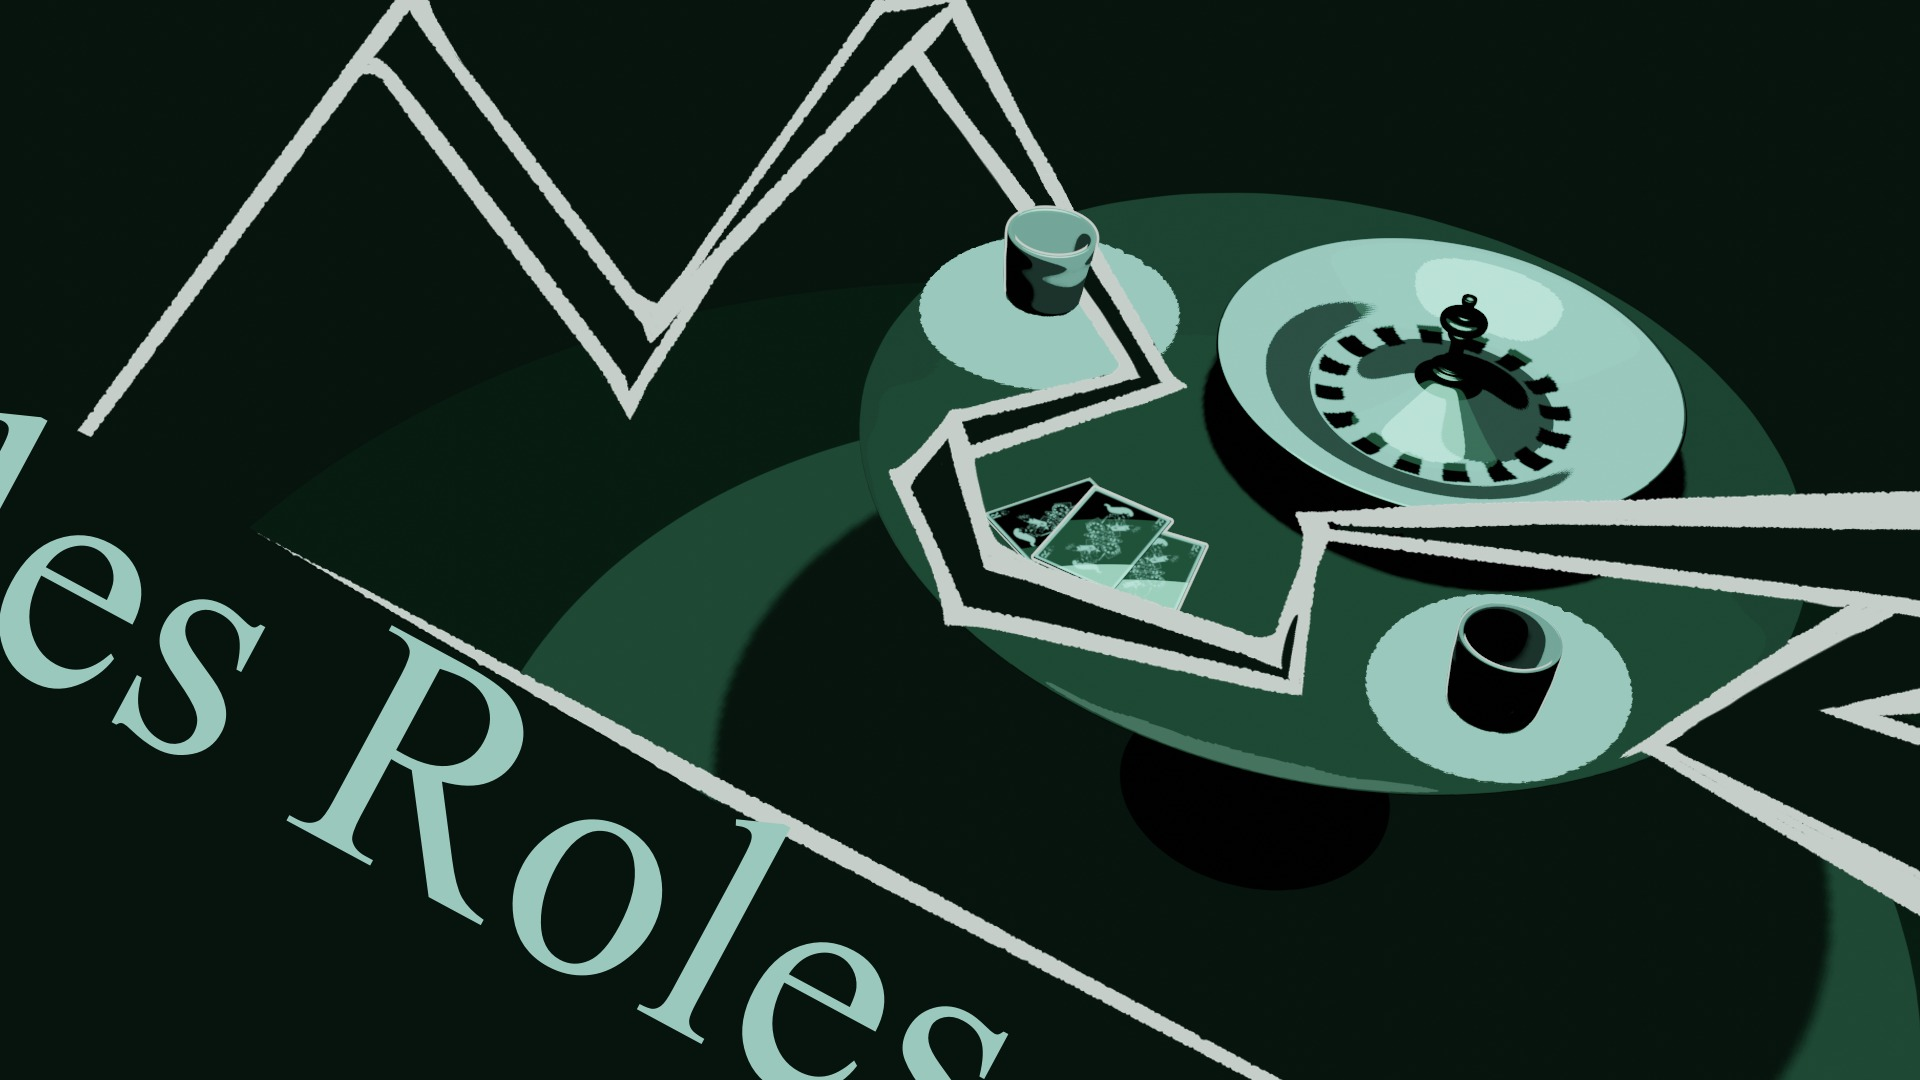
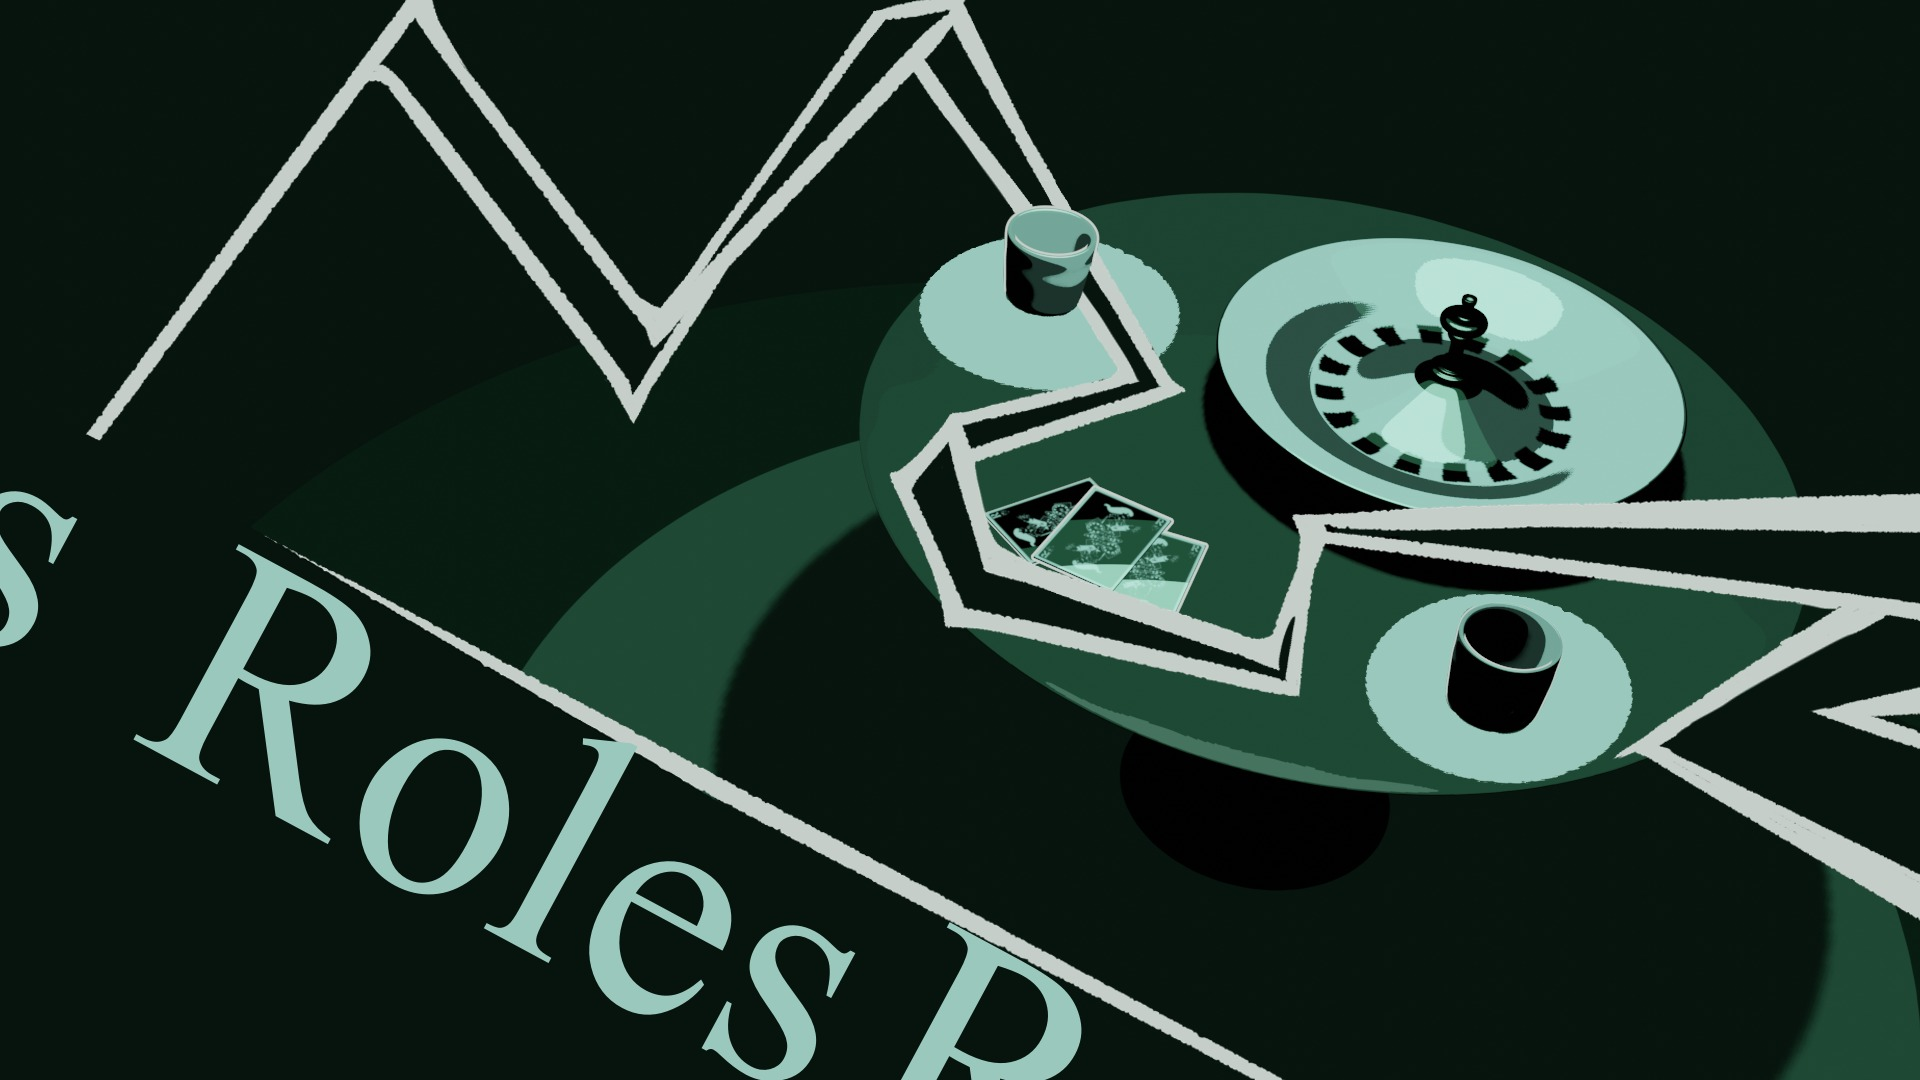
Animaciones

diff --git a/AppGM/AppGM/Paginas/Inicio/UserControlPaginaInicio.xaml b/AppGM/AppGM/Paginas/Inicio/UserControlPaginaInicio.xaml
@@ -14,7 +14,7 @@
         <!-- Imagen de fondo -->
         <Grid.Background>
             <ImageBrush Stretch="UniformToFill"
-                        ImageSource="../../Media/Imagenes/UiFondoMenuPrincipal.png"/>
+                        ImageSource="{Binding FotogramaActualAnimacionFondo}"/>
         </Grid.Background>
 
         <Grid.ColumnDefinitions>

diff --git a/AppGM/AppGMCore/Otros/Animaciones/Animacion.cs b/AppGM/AppGMCore/Otros/Animaciones/Animacion.cs
@@ -1,0 +1,56 @@
+using System;
+using System.Linq.Expressions;
+using System.Reflection;
+using System.Diagnostics;
+
+namespace AppGM.Core
+{
+    public class Animacion
+    {
+        public string pathFotogramas;
+
+        private float intervaloEntreFotogramas;
+        private int fotogramaActual = 0;
+        private ushort cantidadDeFotogramas;
+
+        private string extensionImagen;
+
+        private BaseViewModel elementoContenedor;
+        private PropertyInfo  propiedad;
+        private Stopwatch     reloj = new Stopwatch();
+        public Animacion(
+            Expression<Func<string>> _propiedad,
+            float _iteracionesPorSegundo,
+            ushort _cantidadDeFotogramas,
+            string _pathFotogramas,
+            EFormatoImagen _formatoFotogramas,
+            BaseViewModel _elementoContenedor)
+        {
+            pathFotogramas           = _pathFotogramas;
+            cantidadDeFotogramas     = _cantidadDeFotogramas;
+            intervaloEntreFotogramas = ((1.0f / cantidadDeFotogramas) / _iteracionesPorSegundo) * 1000f;
+
+            extensionImagen = _formatoFotogramas == EFormatoImagen.Png ? ".png" : ".jpg";
+
+            MemberExpression mex = _propiedad.Body as MemberExpression;
+
+            propiedad = mex.Member as PropertyInfo;
+
+            elementoContenedor = _elementoContenedor;
+
+            reloj.Start();
+        }
+
+        public void Tick()
+        {
+            if (reloj.ElapsedMilliseconds > intervaloEntreFotogramas)
+            {
+                fotogramaActual = ++fotogramaActual % cantidadDeFotogramas;
+
+                propiedad.SetValue(elementoContenedor, pathFotogramas + fotogramaActual + extensionImagen);
+
+                reloj.Restart();
+            }
+        }
+    }
+}

diff --git a/AppGM/AppGMCore/ViewModels/ViewModelPaginaPrincipal.cs b/AppGM/AppGMCore/ViewModels/ViewModelPaginaPrincipal.cs
@@ -14,6 +14,9 @@ namespace AppGM.Core
 
         public bool MouseSobreCartaRol { get; set; } = false;
 
+        public string FotogramaActualAnimacionFondo { get; set; } =
+            "../../../Media/Imagenes/Animaciones/FondoMenuPrincipal/FondoMenuPrincipal_0.jpg";
+
         public ICommand ComandoAvanzarIndiceRol { get; set; }
         public ICommand ComandoRetrocederIndiceRol { get; set; }
 
@@ -81,6 +84,14 @@ namespace AppGM.Core
 
                 DispararPropertyChanged(new PropertyChangedEventArgs(nameof(RolActual)));
             });
+
+            ControladorDeAnimaciones.AñadirAnimacion(
+                new Animacion(()=>FotogramaActualAnimacionFondo,
+                    1.2f,
+                    6,
+                    "../../Media/Imagenes/Animaciones/FondoMenuPrincipal/FondoMenuPrincipal_",
+                    EFormatoImagen.Jpg,
+                    this));
         }
         #endregion
 

diff --git a/AppGM/AppGMCore/Otros/Animaciones/ControladorDeAnimaciones.cs b/AppGM/AppGMCore/Otros/Animaciones/ControladorDeAnimaciones.cs
@@ -1,0 +1,28 @@
+using System.Collections.Generic;
+using System.Threading;
+using System.Threading.Tasks;
+
+namespace AppGM.Core
+{
+    public static class ControladorDeAnimaciones
+    {
+        private static List<Animacion> animaciones = new List<Animacion>();
+
+        public static void Inicializar()
+        {
+            Task.Run(() =>
+            {
+                while (true)
+                {
+                    for (int i = 0; i < animaciones.Count; ++i)
+                        animaciones[i].Tick();
+
+                    Thread.Sleep(20);
+                }
+            });
+        }
+
+        public static void AñadirAnimacion(Animacion animacion) => animaciones.Add(animacion);
+        public static void QuitarAnimacion(Animacion animacion) => animaciones.Remove(animacion);
+    }
+}

diff --git a/AppGM/AppGMCore/Datos/DatosRol.cs b/AppGM/AppGMCore/Datos/DatosRol.cs
@@ -66,9 +66,7 @@ namespace AppGM.Core
                         Lck = 13,
                         Chr = 12,
 
-                        EClaseDeSuServant = EClaseServant.Berserker,
-
-                        Magias = new List<TIPersonajeMagia>()
+                        EClaseDeSuServant = EClaseServant.Berserker
                     };
 
                     ModeloMagia magia1 = new ModeloMagia

diff --git a/AppGM/AppGMCore/Sistema/SistemaPrincipal.cs b/AppGM/AppGMCore/Sistema/SistemaPrincipal.cs
@@ -85,7 +85,7 @@ namespace AppGM.Core
 
         private static void CrearViewModels()
         {
-            Kernel.Bind<ViewModelAplicacion>().ToConstant(new ViewModelAplicacion());
+            Kernel.Bind<ViewModelAplicacion>()     .ToConstant(new ViewModelAplicacion());
             Kernel.Bind<ViewModelPaginaPrincipal>().ToConstant(new ViewModelPaginaPrincipal());
         }
 

diff --git a/AppGM/AppGM/Viewmodels/ViewModelVentanaBase.cs b/AppGM/AppGM/Viewmodels/ViewModelVentanaBase.cs
@@ -172,6 +172,7 @@ namespace AppGM
         public event EventoVentana OnVentanaCerrada   = delegate { };
         public event EventoVentana OnMouseDown        = delegate { };
         public event EventoVentana OnMouseUp          = delegate { };
+        public event EventoVentana OnFotogramaActualizado = delegate { };
 
         #endregion
     }

diff --git a/AppGM/AppGMCore/ViewModels/ViewModelAplicacion.cs b/AppGM/AppGMCore/ViewModels/ViewModelAplicacion.cs
@@ -27,6 +27,7 @@ namespace AppGM.Core
         event EventoVentana OnMouseUp;
         event EventoVentana OnVentanaCerrada;
         event EventoVentana OnVentanaAbierta;
+        event EventoVentana OnFotogramaActualizado;
     }
 
     public interface IVentanaMensaje : IVentana

diff --git a/AppGM/AppGMCore/Controladores/Controlador.cs b/AppGM/AppGMCore/Controladores/Controlador.cs
@@ -1,6 +1,6 @@
 namespace AppGM.Core
 {
-    public class ControladorBase {}
+    public abstract class ControladorBase {}
     public class Controlador<TipoModelo> : ControladorBase
         where TipoModelo: new()
     {

diff --git a/AppGM/AppGM/App.xaml.cs b/AppGM/AppGM/App.xaml.cs
@@ -16,6 +16,8 @@ namespace AppGM
 
             MainWindow = new MainWindow();
             MainWindow.Show();
+
+            ControladorDeAnimaciones.Inicializar();
         }
     }
 }

diff --git a/AppGM/AppGMCore/Modelos/ModeloBase.cs b/AppGM/AppGMCore/Modelos/ModeloBase.cs
@@ -2,7 +2,7 @@
 
 namespace AppGM.Core
 {
-    public class ModeloBaseSK{}
+    public abstract class ModeloBaseSK{}
     public class ModeloBase : ModeloBaseSK
     {   
         //Id
